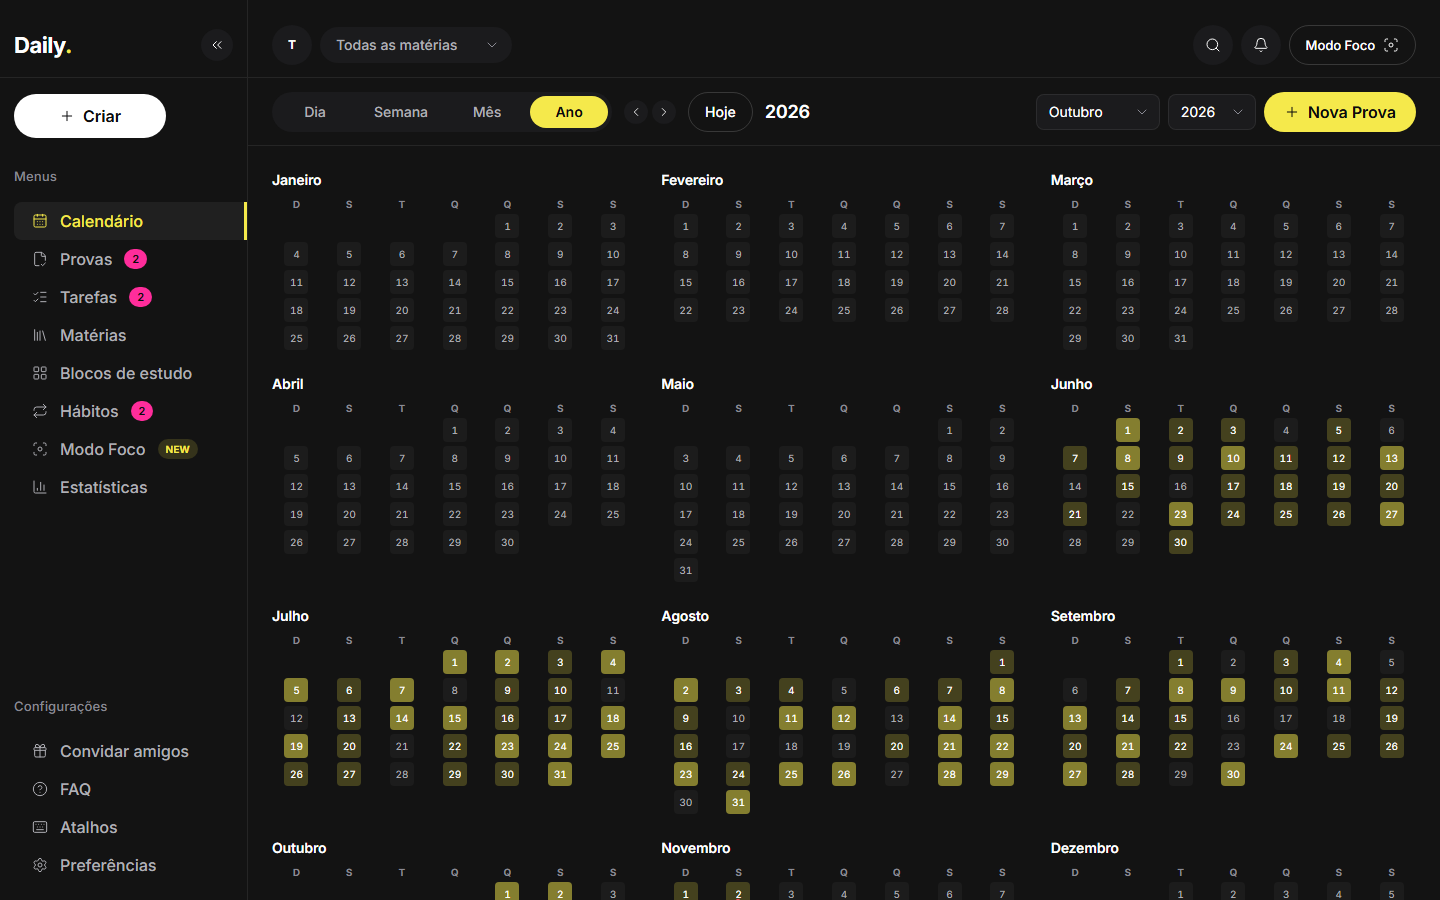
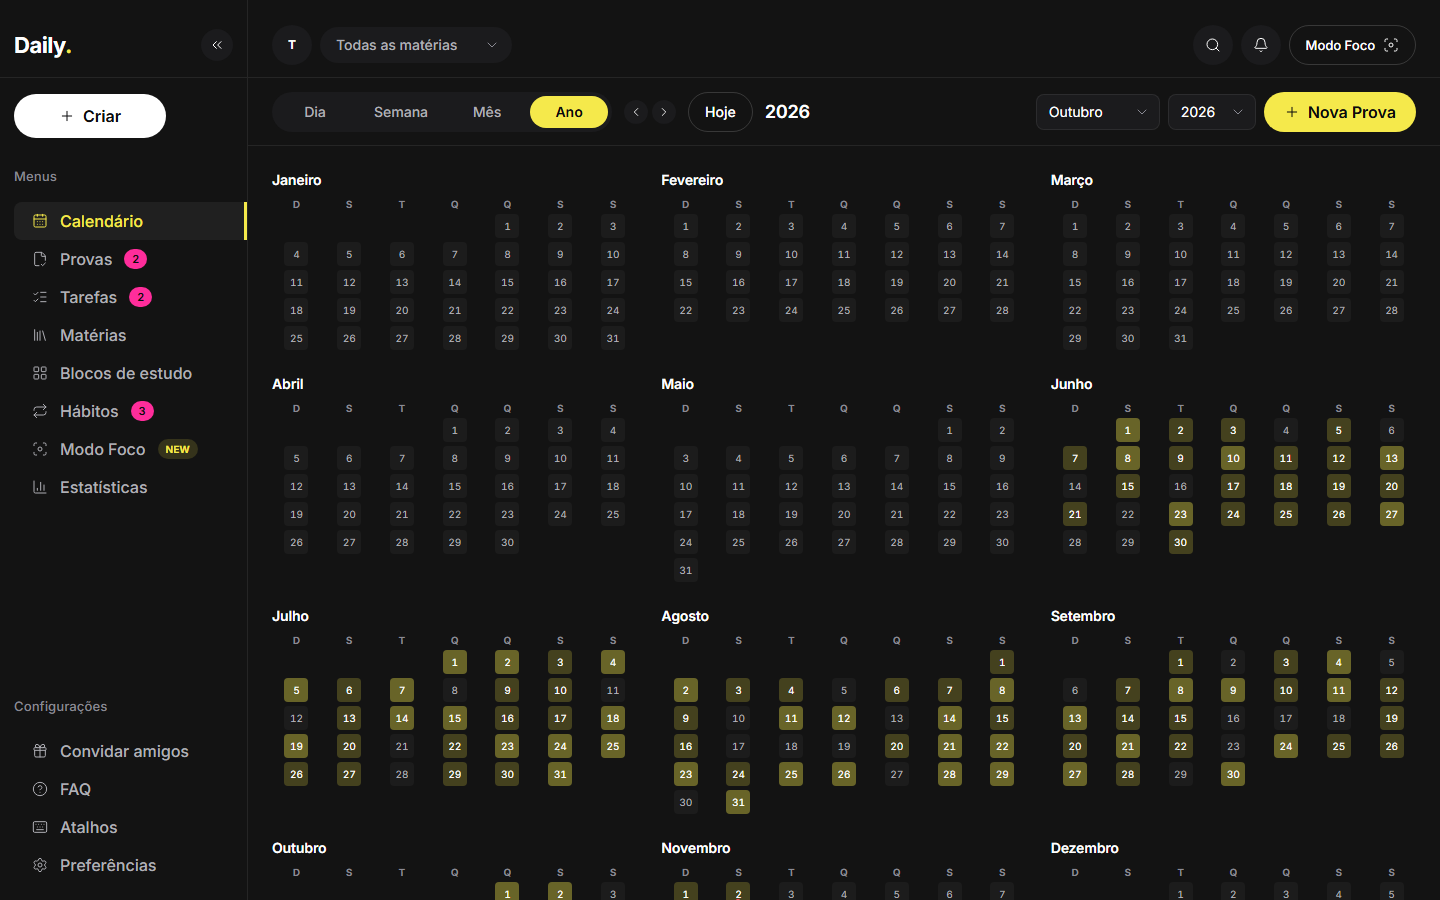
test(calendar): view e2e, contrast fixes and habit click helpers

diff --git a/apps/web/e2e/calendar-views.spec.ts b/apps/web/e2e/calendar-views.spec.ts
@@ -1,0 +1,154 @@
+import { expect, test, type Page } from '@playwright/test';
+
+/** Quinta-feira, 29/10/2026. */
+const NOW = new Date('2026-10-29T10:30:00');
+const BASE = '/calendario?fixture=views';
+
+const view = (page: Page, name: string) => page.getByRole('radio', { name, exact: true });
+const title = (page: Page) => page.locator('h2[aria-live="polite"]');
+
+test.describe('Visões do calendário', () => {
+  test.beforeEach(async ({ page }) => {
+    await page.clock.install({ time: NOW });
+  });
+
+  test('troca entre Dia, Semana, Mês e Ano pelo segmentado e pela URL', async ({ page }) => {
+    await page.goto(BASE);
+    await expect(view(page, 'Mês')).toBeChecked();
+    await expect(page.getByRole('grid', { name: 'Calendário mensal' })).toBeVisible();
+
+    await view(page, 'Semana').click();
+    await expect(page).toHaveURL(/visao=semana&data=2026-10-29/);
+    await expect(page.getByRole('grid', { name: 'Calendário semanal' })).toBeVisible();
+
+    await view(page, 'Dia').click();
+    await expect(page).toHaveURL(/visao=dia/);
+    await expect(page.getByRole('grid', { name: 'Calendário do dia' })).toBeVisible();
+    await expect(
+      page.getByRole('heading', { name: 'Hoje, quinta-feira, 29 de outubro' }),
+    ).toBeVisible();
+
+    await view(page, 'Ano').click();
+    await expect(page.getByRole('group', { name: 'Calendário de 2026' })).toBeVisible();
+
+    // Pela URL (e o botão voltar do navegador).
+    await page.goto('/calendario?visao=ano&data=2027-03-10&fixture=views');
+    await expect(view(page, 'Ano')).toBeChecked();
+    await expect(page.getByRole('group', { name: 'Calendário de 2027' })).toBeVisible();
+    await page.goBack();
+    await expect(page.getByRole('group', { name: 'Calendário de 2026' })).toBeVisible();
+
+    // Valores inválidos caem em Mês + hoje.
+    await page.goto('/calendario?visao=hora&data=2026-02-30&fixture=views');
+    await expect(view(page, 'Mês')).toBeChecked();
+    await expect(title(page)).toHaveText('Outubro 2026');
+  });
+
+  test('→ avança a semana e “Hoje” volta ao período atual na mesma visão', async ({ page }) => {
+    await page.goto(`${BASE}&visao=semana&data=2026-10-29`);
+    await expect(title(page)).toHaveText('25 – 31 out 2026');
+    await page.keyboard.press('ArrowRight');
+    await expect(title(page)).toHaveText('1 – 7 nov 2026');
+    await expect(page).toHaveURL(/data=2026-11-05/);
+    await page.keyboard.press('ArrowRight');
+    await page.getByRole('button', { name: 'Hoje', exact: true }).click();
+    await expect(title(page)).toHaveText('25 – 31 out 2026');
+    await expect(view(page, 'Semana')).toBeChecked(); // continua na Semana
+
+    // Atalhos de visão e “T”.
+    await page.keyboard.press('a');
+    await expect(view(page, 'Ano')).toBeChecked();
+    await page.keyboard.press('ArrowLeft');
+    await expect(title(page)).toHaveText('2025');
+    await page.keyboard.press('t');
+    await expect(title(page)).toHaveText('2026');
+    await page.keyboard.press('d');
+    await expect(view(page, 'Dia')).toBeChecked();
+  });
+
+  test('os atalhos não roubam as teclas de um campo de texto nem com modal aberto', async ({
+    page,
+  }) => {
+    await page.goto(`${BASE}&visao=semana&data=2026-10-29`);
+    await page.getByRole('button', { name: 'Nova Prova' }).click();
+    await page.getByLabel('Título').fill('sdm');
+    await expect(page.getByLabel('Título')).toHaveValue('sdm');
+    await expect(view(page, 'Semana')).toBeChecked();
+    await page.keyboard.press('Escape');
+    await page.keyboard.press('m');
+    await expect(view(page, 'Mês')).toBeChecked();
+  });
+
+  test('clicar num horário vazio da Semana cria o evento com data e hora corretas', async ({
+    page,
+  }) => {
+    await page.goto(`${BASE}&visao=semana&data=2026-10-29`);
+    const friday = page.getByRole('gridcell', { name: '2026-10-30' });
+    // 20:00: o evento que cruza a meia-noite expande a grade para 00h–24h (72 px por hora).
+    await friday.click({ position: { x: 20, y: 20 * 72 + 10 } });
+
+    const dialog = page.getByRole('dialog');
+    await expect(dialog.getByLabel('Data')).toHaveValue('2026-10-30');
+    await expect(dialog.getByLabel('Início')).toHaveValue('20:00');
+    await dialog.getByLabel('Título').fill('Estudo noturno');
+    await dialog.getByRole('button', { name: 'Salvar' }).click();
+
+    const block = page.getByRole('button', { name: /Estudo noturno, 20:00 – 21:00/ });
+    await expect(block).toBeVisible();
+  });
+
+  test('no Ano, clicar num dia abre a visão Dia daquela data; o nome do mês abre o Mês', async ({
+    page,
+  }) => {
+    await page.goto(`${BASE}&visao=ano&data=2026-10-29`);
+    await page.getByRole('button', { name: /^qui\., 29 de out\./ }).click();
+    await expect(page).toHaveURL(/visao=dia&data=2026-10-29/);
+    await expect(
+      page.getByRole('heading', { name: 'Hoje, quinta-feira, 29 de outubro' }),
+    ).toBeVisible();
+
+    await page.goto(`${BASE}&visao=ano&data=2026-10-29`);
+    await page.getByRole('button', { name: 'Abrir Março na visão Mês' }).click();
+    await expect(page).toHaveURL(/visao=mes&data=2026-03-01/);
+    await expect(title(page)).toHaveText('Março 2026');
+  });
+
+  test('a faixa de hábitos da Semana marca um hábito manual e muda o estado', async ({ page }) => {
+    await page.goto(`${BASE}&visao=semana&data=2026-10-29`);
+    const pill = page.getByRole('button', { name: /^Meditação: pendente/ }); // só hoje está pendente
+    await expect(pill).toHaveAttribute('aria-pressed', 'false');
+    await pill.click();
+    await expect(page.getByRole('button', { name: /^Meditação: feito/ })).toHaveCount(1);
+    await expect(page.getByRole('button', { name: /^Meditação: feito/ })).toHaveAttribute(
+      'aria-pressed',
+      'true',
+    );
+    // Hábito automático (água) é somente leitura.
+    await expect(page.getByRole('button', { name: /^Hidratação/ })).toHaveCount(0);
+  });
+
+  test('eventos simultâneos aparecem todos, lado a lado e sem sobreposição', async ({ page }) => {
+    await page.goto(`${BASE}&visao=semana&data=2026-10-29`);
+    const names = ['Grupo de estudos', 'Revisão de História', 'Simulado'];
+    const boxes = [];
+    for (const name of names) {
+      const block = page.getByRole('button', { name: new RegExp(`: ${name},`) });
+      await expect(block).toBeVisible();
+      const box = await block.boundingBox();
+      expect(box).not.toBeNull();
+      boxes.push(box!);
+    }
+    for (let i = 0; i < boxes.length; i += 1) {
+      for (let j = i + 1; j < boxes.length; j += 1) {
+        const a = boxes[i]!;
+        const b = boxes[j]!;
+        const overlap =
+          a.x < b.x + b.width - 1 &&
+          b.x < a.x + a.width - 1 &&
+          a.y < b.y + b.height - 1 &&
+          b.y < a.y + a.height - 1;
+        expect(overlap, `${names[i]} × ${names[j]}`).toBe(false);
+      }
+    }
+  });
+});

diff --git a/apps/web/src/mocks/views-fixture.ts b/apps/web/src/mocks/views-fixture.ts
@@ -1,4 +1,10 @@
-import { dataSnapshotSchema, studyEventSchema, type DataSnapshot } from '@daily/shared';
+import {
+  dataSnapshotSchema,
+  EVERY_DAY,
+  habitSchema,
+  studyEventSchema,
+  type DataSnapshot,
+} from '@daily/shared';
 import { dayKey, shiftDay } from '../lib/dates';
 import { VIEWS_NOW } from '../lib/fixture';
 import { statsSnapshot } from './stats-fixture';
@@ -54,5 +60,22 @@ export function viewsSnapshot(now: Date = VIEWS_NOW): DataSnapshot {
       ...(type === 'prova' ? { contents: [] } : {}),
     });
   });
-  return dataSnapshotSchema.parse({ ...base, events: [...base.events, ...events] });
+  // Um hábito manual sem horário (aparece na faixa “Hábitos” da Semana e pode ser marcado dali).
+  const meditation = habitSchema.parse({
+    id: 'fx-v-meditation',
+    name: 'Meditação',
+    icon: 'heart',
+    color: 'turquesa',
+    type: 'check',
+    unit: '',
+    source: 'manual',
+    rules: [{ since: shiftDay(today, -30), repeat: EVERY_DAY, target: null, time: null }],
+    createdAt: at(shiftDay(today, -30), 8),
+    order: base.habits.length,
+  });
+  return dataSnapshotSchema.parse({
+    ...base,
+    events: [...base.events, ...events],
+    habits: [...base.habits, meditation],
+  });
 }

diff --git a/apps/web/src/lib/habits/store-habits.test.ts b/apps/web/src/lib/habits/store-habits.test.ts
@@ -9,6 +9,8 @@ import {
   duplicateHabitDraft,
   MAX_RETRO_DAYS,
   newHabit,
+  nextHabitValue,
+  stepFor,
   type HabitDraft,
 } from './edit';
 import { monthLabels, monthlySummary, formatLongDay, formatAmount } from './summary';
@@ -248,5 +250,27 @@ describe('resumos de texto', () => {
       ['2026-10', 2, 1],
       ['2026-11', 2, 1],
     ]);
+  });
+});
+
+describe('clique em hábitos manuais (faixa da Semana e blocos)', () => {
+  const check = habitSchema.parse({ ...newHabit(draft(), new Date(2026, 9, 1), 0), id: 'c' });
+  const qty = habitSchema.parse({
+    ...newHabit(draft({ type: 'quantidade', unit: 'min', target: 30 }), new Date(2026, 9, 1), 1),
+    id: 'q',
+  });
+
+  it('check alterna entre feito e não feito', () => {
+    expect(nextHabitValue(check, 0, 1)).toBe(1);
+    expect(nextHabitValue(check, 1, 1)).toBe(0);
+  });
+
+  it('quantidade soma um passo, trava na meta e zera no clique seguinte', () => {
+    expect(stepFor(30)).toBe(1);
+    expect(stepFor(100)).toBe(10);
+    expect(stepFor(2000)).toBe(250);
+    expect(nextHabitValue(qty, 0, 30)).toBe(1);
+    expect(nextHabitValue(qty, 29, 30)).toBe(30);
+    expect(nextHabitValue(qty, 30, 30)).toBe(0);
   });
 });

diff --git a/apps/web/src/features/calendar/CalendarPage.tsx b/apps/web/src/features/calendar/CalendarPage.tsx
@@ -56,9 +56,15 @@ export function CalendarPage() {
   const go = useCallback(
     (next: { view?: CalendarView; date?: string }) => {
       setSelection(null);
-      setParams(buildCalendarSearch({ view: next.view ?? view, date: next.date ?? date }));
+      // Preserva os outros parâmetros da URL (ex.: `fixture` em desenvolvimento).
+      const merged = new URLSearchParams(params);
+      const wanted = new URLSearchParams(
+        buildCalendarSearch({ view: next.view ?? view, date: next.date ?? date }),
+      );
+      wanted.forEach((value, key) => merged.set(key, value));
+      setParams(merged);
     },
-    [setParams, view, date],
+    [setParams, params, view, date],
   );
   const step = useCallback(
     (direction: 1 | -1) => go({ date: shiftPeriod(view, date, direction) }),

diff --git a/apps/web/src/styles/tokens.css b/apps/web/src/styles/tokens.css
@@ -117,7 +117,7 @@
   --ds-year-exam-dot: 0.3125rem;
   --ds-density-0: rgb(255 255 255 / 0.04);
   --ds-density-1: color-mix(in srgb, var(--ds-color-accent) 22%, transparent);
-  --ds-density-2: color-mix(in srgb, var(--ds-color-accent) 50%, transparent);
+  --ds-density-2: color-mix(in srgb, var(--ds-color-accent) 38%, transparent);
   --ds-density-3: color-mix(in srgb, var(--ds-color-accent) 85%, transparent);
   /* Heatmap de hábitos (docs/design/design-system.md → “Heatmap de hábitos”) */
   --ds-heat-cell-max: 1.125rem;

diff --git a/apps/web/src/features/calendar/components/HabitPill.tsx b/apps/web/src/features/calendar/components/HabitPill.tsx
@@ -42,7 +42,7 @@ export function HabitPill({ habit, date, ctx, onToggle }: HabitPillProps) {
         <Icon aria-hidden strokeWidth={1.5} className="habit-text size-icon-sm shrink-0" />
       )}
       <span className="truncate">{habit.name}</span>
-      {quantity && <span className="shrink-0 tabular-nums opacity-done">{quantity}</span>}
+      {quantity && <span className="shrink-0 tabular-nums">{quantity}</span>}
     </>
   );
 
